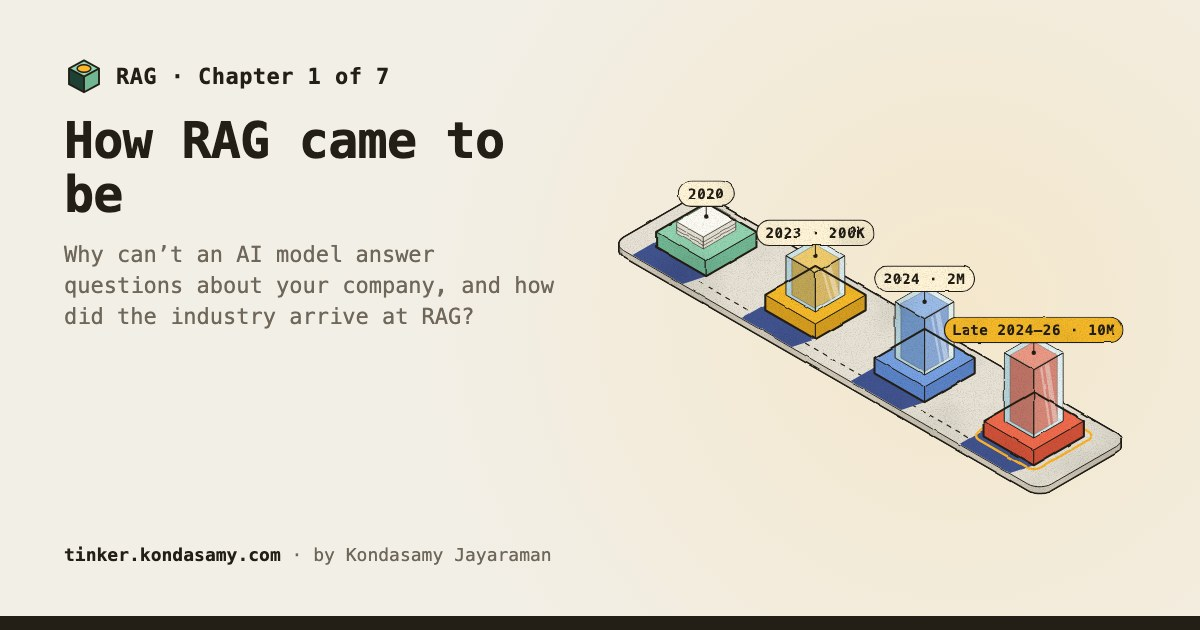
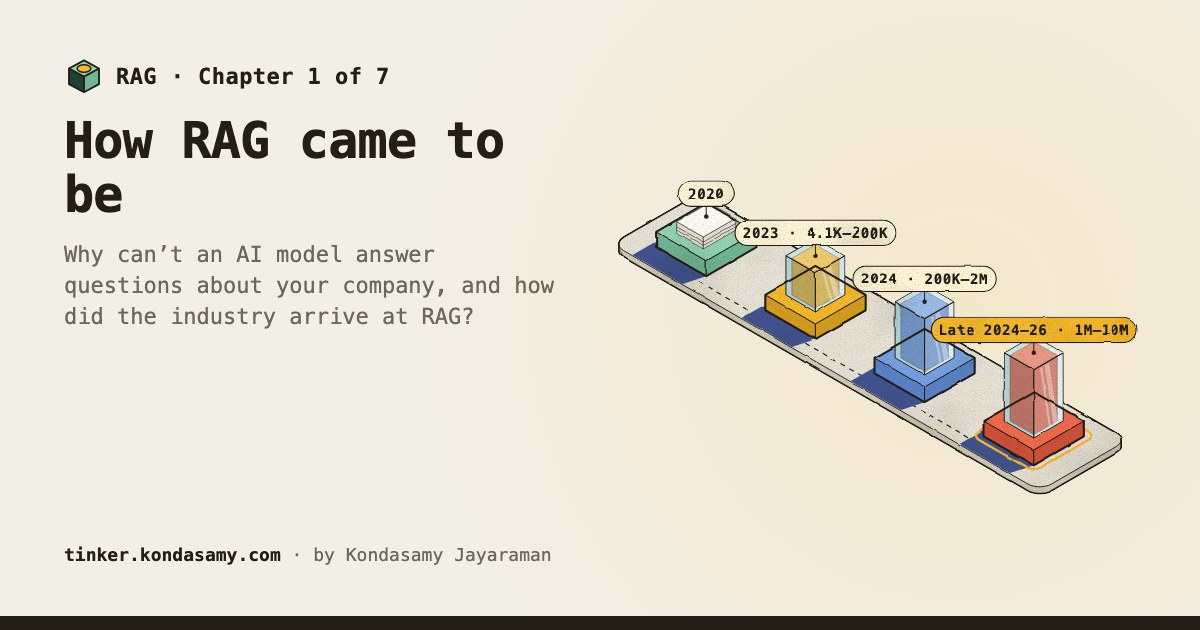
fix(rag): show each era's range of context windows, not one model's record as typical
Chapter 1 read "windows reached 10M tokens" off Llama 4 Scout alone, while the
era's other cited models sit at 1M. The narration now names the record holder
and the common size, the timeline pills show each era's range, 2023 counts
gpt-3.5-turbo's 4K window, 2024 adds Claude 3's 200K launch window, and the RAG
paper credits NYU too. Chapter 2's question names the model behind its window.

Changed region(s): [[0.7708, 0.4825, 0.9558, 0.5429], [0.5858, 0.3317, 0.74, 0.3921], [0.7092, 0.4222, 0.8325, 0.4825]]

diff --git a/src/content/rag/01-history.tsx b/src/content/rag/01-history.tsx
@@ -3,7 +3,7 @@
 import StepRunner from '../../components/story/StepRunner';
 import type { Step } from '../../components/story/steps';
 import Quiz from '../../components/quiz/Quiz';
-import Timeline, { ERAS, eraWindow } from '../../components/scenes/Timeline';
+import Timeline, { ERAS, eraRange, eraWindow } from '../../components/scenes/Timeline';
 import { Source, Answer } from '../../components/scenes/Source';
 import { nextOf } from '../../lib/chapters';
 import { TIMELINE, formatTokens } from '../../lib/scale';
@@ -18,9 +18,14 @@ interface S {
 }
 
 const win = (era: string) => formatTokens(eraWindow(TIMELINE, era));
-const smallest2023 = formatTokens(
-  Math.min(...TIMELINE.filter(e => e.era === 'small-windows' && e.contextTokens).map(e => e.contextTokens!)),
-);
+// the model behind an era's largest window, so the narration never passes one model's window off as typical
+const largest = (era: string) =>
+  TIMELINE.find(e => e.era === era && e.contextTokens === eraWindow(TIMELINE, era))!.model;
+// the window most of an era's cited models share (the agents era: 1M)
+const common = (era: string) => {
+  const w = TIMELINE.filter(e => e.era === era && e.contextTokens).map(e => e.contextTokens!);
+  return formatTokens(w.toSorted((a, b) => w.filter(x => x === b).length - w.filter(x => x === a).length)[0]);
+};
 
 export const QUIZ = {
   question: 'Why did 2023 assistants need retrieval to answer from company documents?',
@@ -41,12 +46,12 @@ export const QUIZ = {
 
 // What the narration says right after the learner opens era i (the drawer shows its cited claims); the picture pins
 // the era's lesson over it.
-const LESSON = ['RAG is named', 'Tiny windows', 'Smarter retrieval', 'RAG becomes a tool'];
+const LESSON = ['RAG is named', 'Small windows', 'Smarter retrieval', 'RAG becomes a tool'];
 const AFTER: string[] = [
   '2020: researchers named the fix. Fetch relevant text first, then let the model answer from it: Retrieval-Augmented Generation, or RAG.',
-  `2023: chat assistants arrived, with a context window of ${smallest2023} to ${win('small-windows')} tokens. Tool calling had barely begun, so retrieval picked the paragraphs.`,
-  `2024: windows reached ${win('retrieval-matures')} tokens and retrieval got smarter: knowledge graphs, better chunks, reranking. Tool use still stumbled on multi-step tasks.`,
-  `Late 2024–26: windows reached ${win('agents')} tokens, and models call tools well enough to act as agents. Retrieval became one tool the agent chooses.`,
+  `2023: companies rolled out chat assistants with context windows of ${eraRange(TIMELINE, 'small-windows')} tokens. Tool calling was new, so retrieval picked the paragraphs.`,
+  `2024: ${largest('retrieval-matures')}’s window hit ${win('retrieval-matures')} tokens, the record. Retrieval got smarter: graphs, better chunks, reranking. Multi-step tool use still stumbled.`,
+  `Late 2024–26: ${common('agents')}-token windows became common (${largest('agents')} claims ${win('agents')}). Models now act as agents, and retrieval is one tool they choose.`,
 ];
 
 const eraStep = (i: number): Step<S> => ({
@@ -58,7 +63,7 @@ const eraStep = (i: number): Step<S> => ({
     i === 0
       ? 'Confident, and wrong. A model knows only its training data plus its prompt, and it never saw your contracts.'
       : AFTER[i - 1],
-  act: `Click ${i === ERAS.length - 1 ? 'the last era' : ERAS[i].label}.`,
+  act: `Click ${ERAS[i].label}.`,
   say: i === 0 ? undefined : { block: String(i - 1), text: LESSON[i - 1] },
   predicate: s => s.visited > i,
   hint: `Click the glowing ${ERAS[i].label} object, or Tab to it and press Enter.`,

diff --git a/src/components/scenes/Timeline.tsx b/src/components/scenes/Timeline.tsx
@@ -47,9 +47,19 @@ const LOG_MIN = 3,
   LOG_MAX = 7; // 1K … 10M tokens
 const colHeight = (t: number) => COL * Math.min(1, Math.max(0.08, (Math.log10(t) - LOG_MIN) / (LOG_MAX - LOG_MIN)));
 
+const windowsOf = (entries: TimelineEntry[], era: string) =>
+  entries.filter(e => e.era === era && e.contextTokens).map(e => e.contextTokens!);
+
 /** Largest context window cited for an era, if any entry cites one. */
-export const eraWindow = (entries: TimelineEntry[], era: string) =>
-  Math.max(0, ...entries.filter(e => e.era === era && e.contextTokens).map(e => e.contextTokens!));
+export const eraWindow = (entries: TimelineEntry[], era: string) => Math.max(0, ...windowsOf(entries, era));
+
+/** The era's cited windows as a range ("4.1K–200K"): its largest alone would read as typical. */
+export const eraRange = (entries: TimelineEntry[], era: string) => {
+  const w = windowsOf(entries, era),
+    lo = formatTokens(Math.min(...w)),
+    hi = formatTokens(Math.max(...w));
+  return lo === hi ? hi : `${lo}–${hi}`;
+};
 
 /** pills: label size (1 = page size; the share images pass more) */
 interface Props {
@@ -94,7 +104,7 @@ export default function Timeline({ entries, visited, active, onPick, say, pills 
       }
       s += hullInk(boxCorners(x - H, Y - H, BH, x + H, Y + H, z1), 2.2);
       const what = open
-        ? `${era.label}, ${era.title}${win ? `, context window up to ${formatTokens(win)} tokens` : ''}`
+        ? `${era.label}, ${era.title}${win ? `, context windows of ${eraRange(entries, era.id)} tokens` : ''}`
         : `${era.label}, not opened yet`;
       return {
         at: [x, Y, 0],
@@ -118,7 +128,7 @@ export default function Timeline({ entries, visited, active, onPick, say, pills 
         win = eraWindow(entries, era.id),
         top = BH + PED + (win && open ? colHeight(win) : open ? 9 : 0);
       const callout = say?.block === String(i) ? sayTag([X(i), Y, top], say.text, pills) : '';
-      return `<g aria-hidden="true" pointer-events="none">${tag([X(i), Y, top], 0, -14, open && win ? `${era.label} · ${formatTokens(win)}` : era.label, i === active, pills)}${callout}</g>`;
+      return `<g aria-hidden="true" pointer-events="none">${tag([X(i), Y, top], 0, -14, open && win ? `${era.label} · ${eraRange(entries, era.id)}` : era.label, i === active, pills)}${callout}</g>`;
     }).join('');
     return rail + shadows + byDepth(items) + tags;
   };

diff --git a/src/content/rag/02-why-not-stuff-it.tsx b/src/content/rag/02-why-not-stuff-it.tsx
@@ -55,7 +55,7 @@ export const QUIZ = {
 
 // Predict, then reveal (R9): the slider shows the outcome, so the stage stays at one document until the pick.
 const PREDICT = {
-  question: `The largest context window holds ${formatTokens(WINDOW)} tokens. Will the whole company drive fit?`,
+  question: `The largest context window, ${LARGEST.model}’s, holds ${formatTokens(WINDOW)} tokens. Will the whole company drive fit?`,
   options: [
     'Yes: that window is huge',
     'No: a real drive overflows it many times over',
